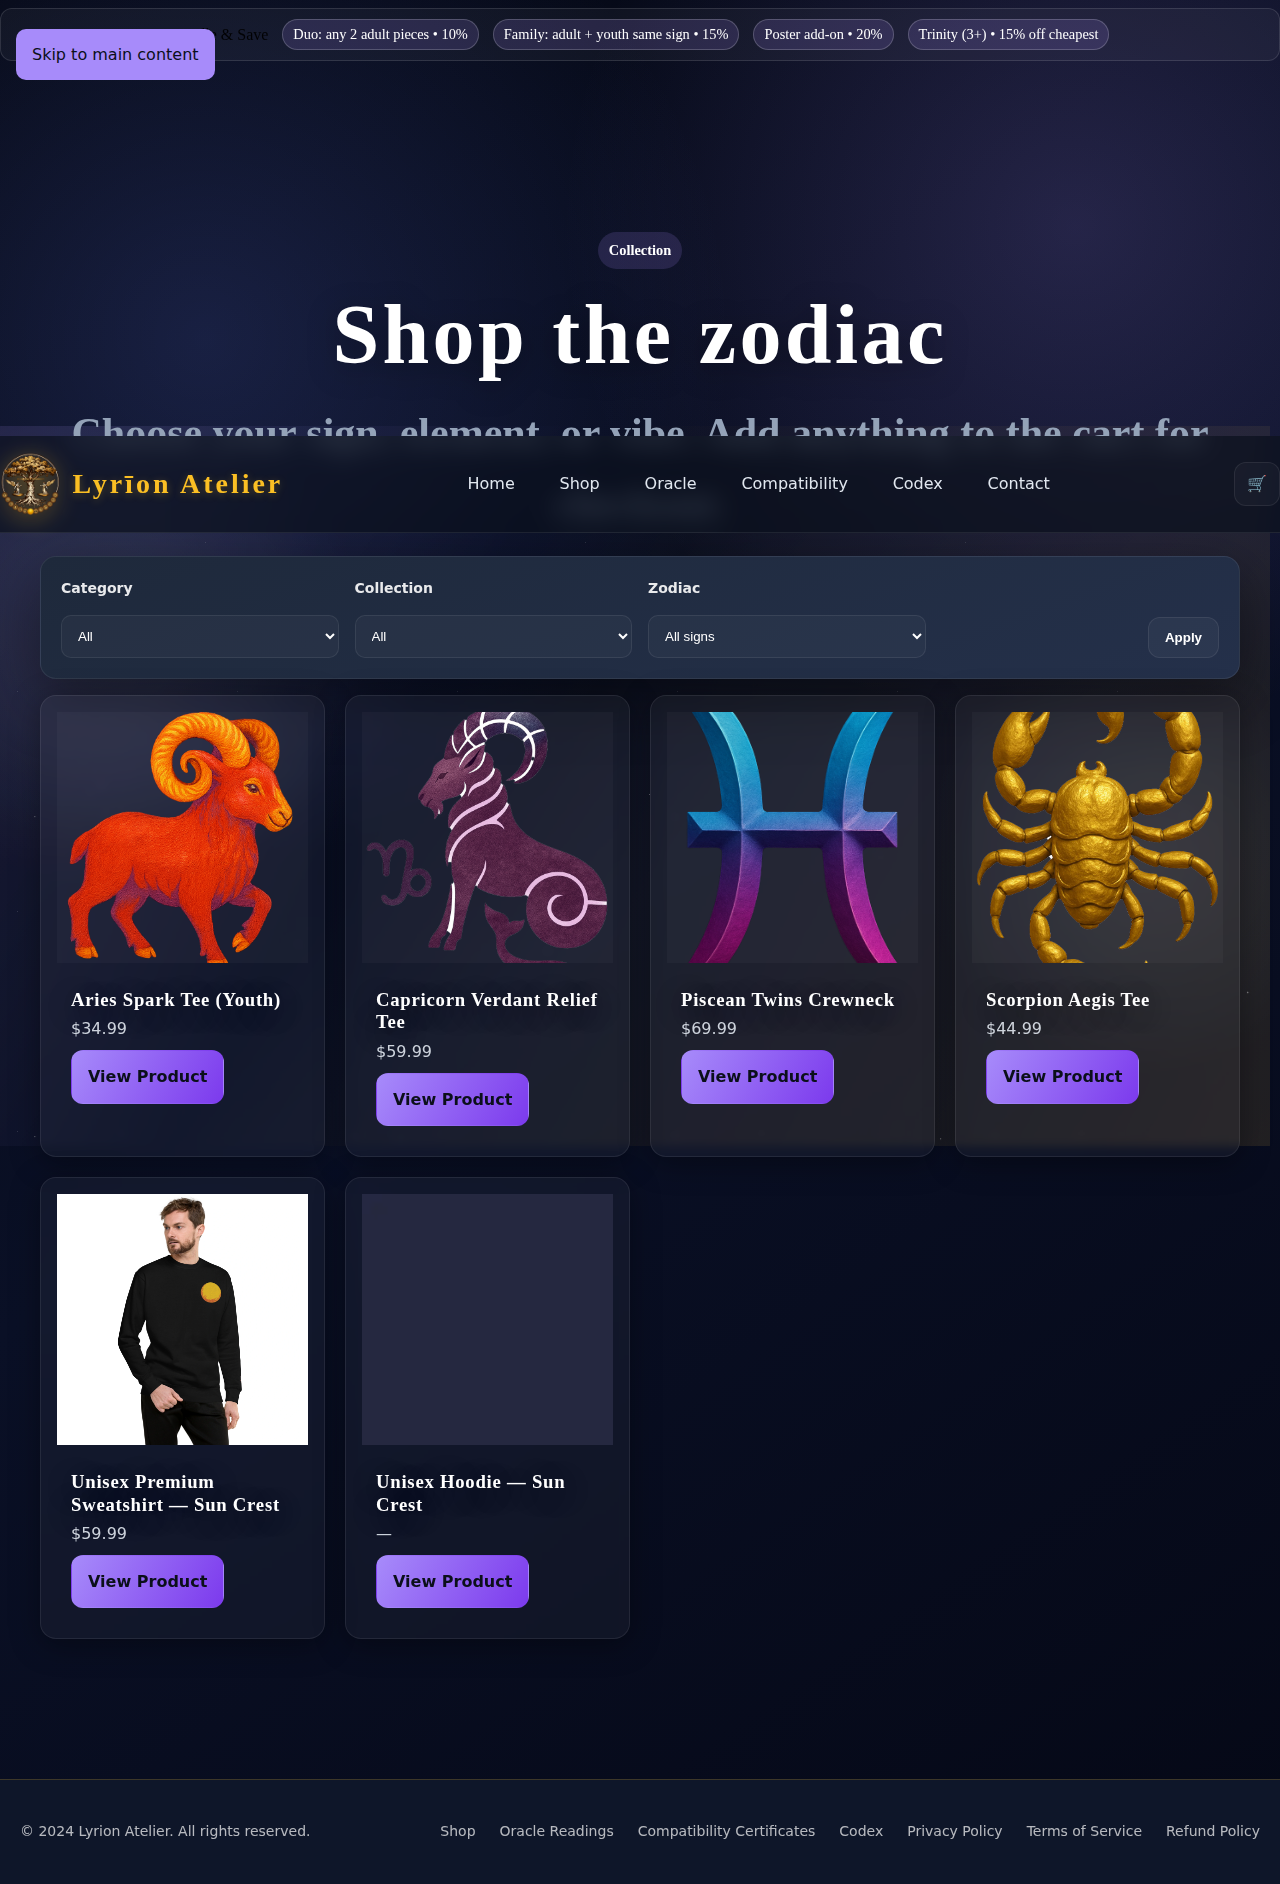
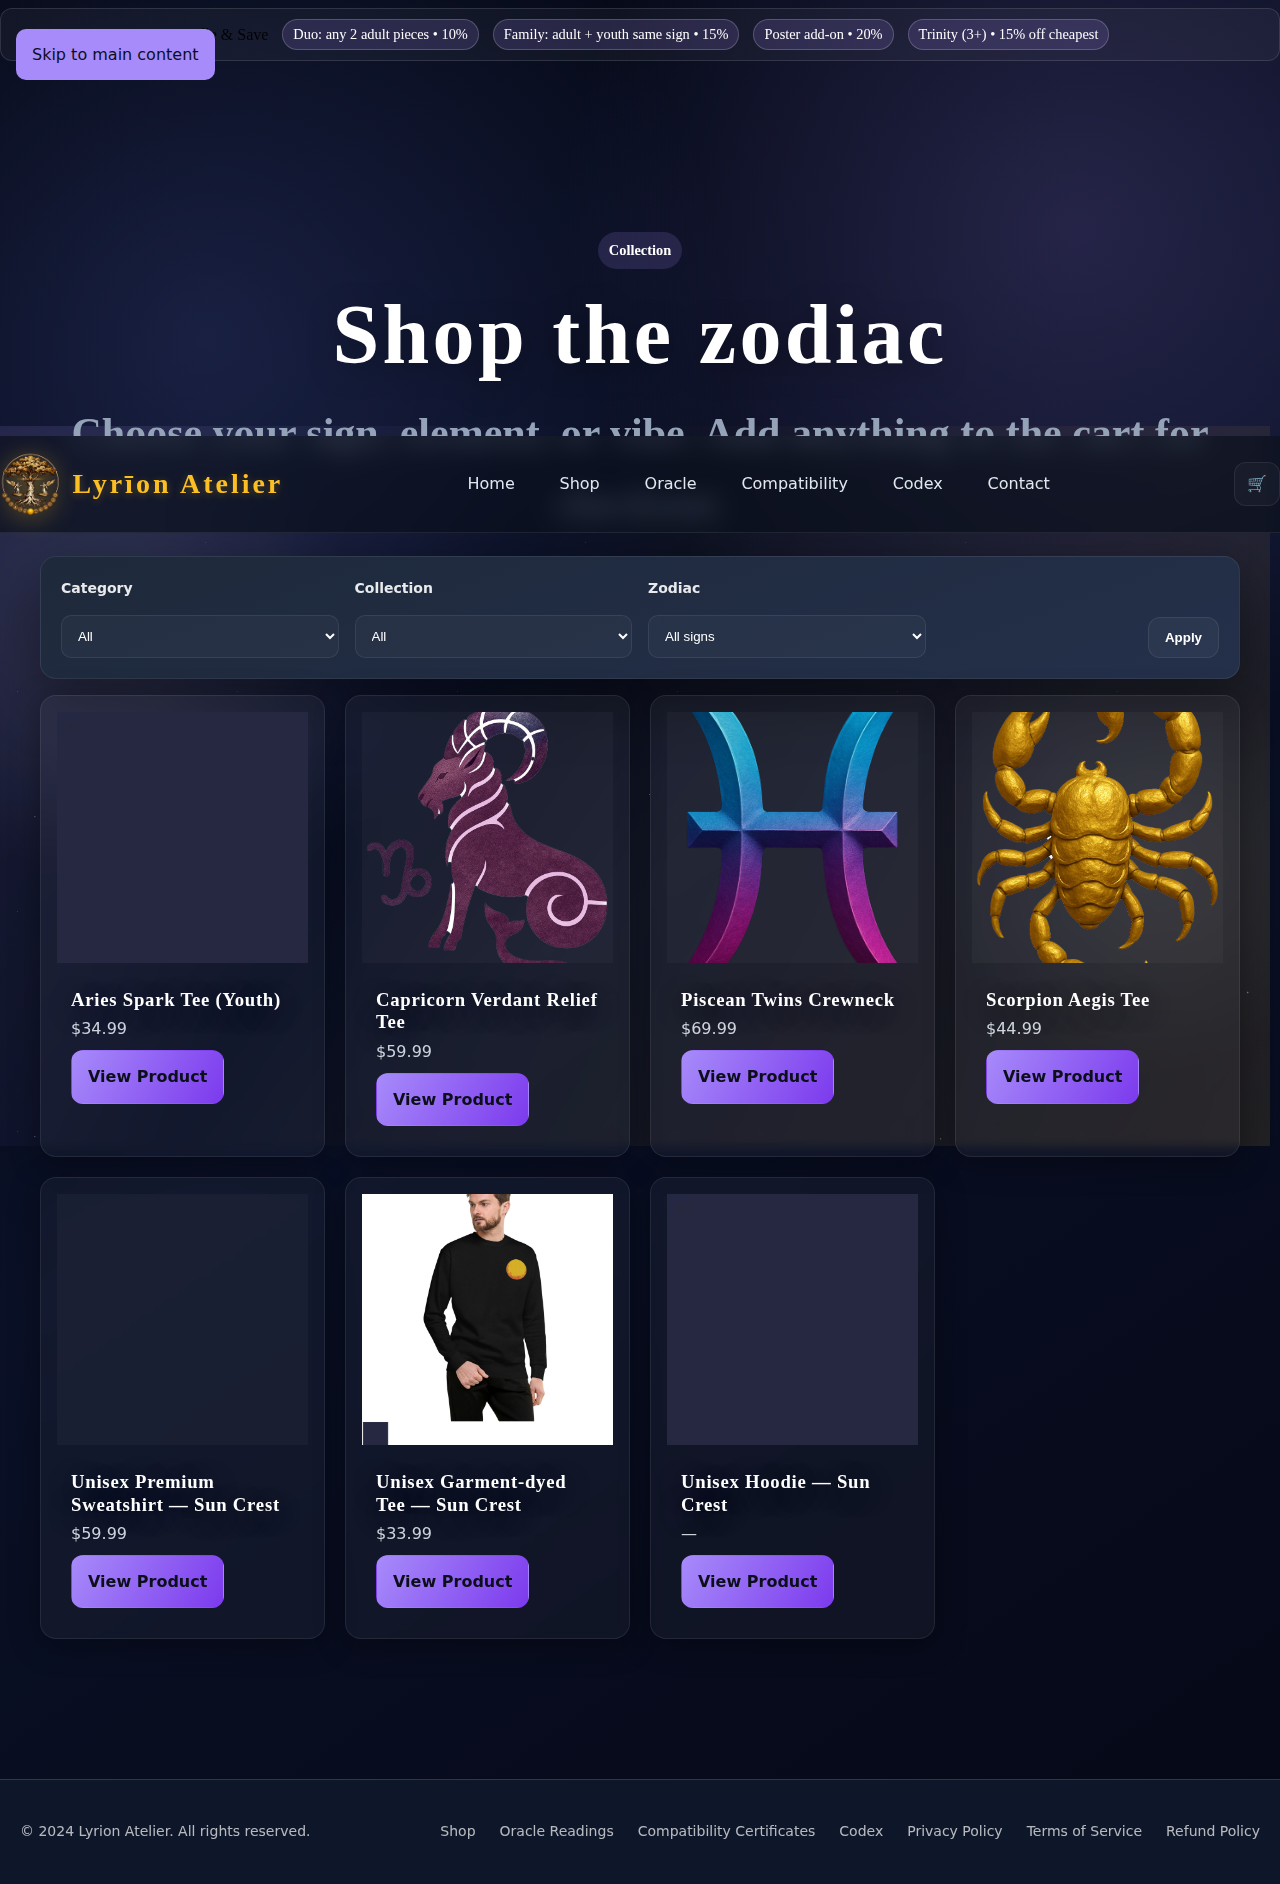
feat(products): replace Aries Spark Tee (Youth) with live Printful variants + external image (fallback-safe)

Changed region(s): [[0.2812, 0.6157, 0.7188, 0.862], [0.0312, 0.6157, 0.25, 0.7696], [0.0312, 0.3694, 0.2188, 0.5234]]

diff --git a/js/product-detail.js b/js/product-detail.js
@@ -98,9 +98,10 @@ function renderImages(images = [], productTitle = 'Product') {
     img.alt = `${productTitle} image ${idx + 1}`;
     img.loading = 'lazy';
     img.decoding = 'async';
-    const allowFallback = !/^https?:\/\//i.test(src || '');
     img.onerror = () => {
-      if (allowFallback && img.src !== FALLBACK_IMAGE) img.src = FALLBACK_IMAGE;
+      if (img.dataset.fallbackApplied === '1') return;
+      img.dataset.fallbackApplied = '1';
+      img.src = FALLBACK_IMAGE;
     };
     gallery.appendChild(img);
   });
@@ -231,6 +232,15 @@ async function hydrateProductPage() {
   );
 
   const sizeSelect = $('#size-select');
+  const sizeContainer = $('#size-selector');
+  const sizeButtonsWrap = document.createElement('div');
+  sizeButtonsWrap.className = 'chip-row size-chip-row';
+  sizeButtonsWrap.id = 'size-buttons';
+  sizeButtonsWrap.setAttribute('role', 'group');
+  sizeButtonsWrap.setAttribute('aria-label', 'Select size');
+  if (sizeContainer) {
+    sizeContainer.appendChild(sizeButtonsWrap);
+  }
   if (sizeSelect) {
     sizeSelect.innerHTML = '<option value="">Select size</option>';
     sizes.forEach((size) => {
@@ -240,6 +250,19 @@ async function hydrateProductPage() {
       sizeSelect.appendChild(opt);
     });
     if (sizes[0]) sizeSelect.value = sizes[0];
+  }
+  if (sizeButtonsWrap && sizes.length) {
+    sizeButtonsWrap.innerHTML = '';
+    sizes.forEach((size, idx) => {
+      const btn = document.createElement('button');
+      btn.type = 'button';
+      btn.className = 'chip size-chip';
+      btn.textContent = size;
+      btn.dataset.size = size;
+      btn.setAttribute('aria-pressed', idx === 0 ? 'true' : 'false');
+      if (idx === 0) btn.classList.add('active');
+      sizeButtonsWrap.appendChild(btn);
+    });
   }
 
   const colorWrap = $('#color-options');
@@ -286,7 +309,8 @@ async function hydrateProductPage() {
   const currency = product.currency || product.price?.currency || 'USD';
 
   function currentSelection() {
-    const selectedSize = sizeSelect?.value || sizes[0] || null;
+    const selectedButton = sizeButtonsWrap?.querySelector('.size-chip.active');
+    const selectedSize = selectedButton?.dataset.size || sizeSelect?.value || sizes[0] || null;
     const selectedColor =
       colorWrap?.querySelector('.chip.active')?.dataset.value || colors[0] || null;
     return { size: selectedSize, color: selectedColor };
@@ -296,15 +320,43 @@ async function hydrateProductPage() {
     const selection = currentSelection();
     activeVariant = resolveVariant(product, selection.size, selection.color);
     const displayPrice = derivePrice(product, selection.size, activeVariant);
+    const variantId =
+      getStoreVariantId(activeVariant) ||
+      activeVariant?.printfulVariantId ||
+      activeVariant?.variant_id ||
+      activeVariant?.id ||
+      product?.pf?.variants?.[selection.size] ||
+      null;
+    if (sizeButtonsWrap) {
+      sizeButtonsWrap.querySelectorAll('.size-chip').forEach((btn) => {
+        const isActive = btn.dataset.size === selection.size;
+        btn.classList.toggle('active', isActive);
+        btn.setAttribute('aria-pressed', isActive ? 'true' : 'false');
+        if (isActive) btn.dataset.variant = variantId || '';
+      });
+    }
     if (priceEl) priceEl.textContent = formatPriceWithCurrency(displayPrice ?? activeVariant?.price, currency);
     if (addBtn) {
       addBtn.disabled = !activeVariant;
+      addBtn.dataset.variant = variantId || '';
       addBtn.textContent = activeVariant
         ? `Add to Cart — ${formatPriceWithCurrency(displayPrice ?? activeVariant?.price, currency)}`
         : 'Unavailable';
     }
   }
 
+  sizeButtonsWrap?.addEventListener('click', (e) => {
+    const btn = e.target.closest('.size-chip');
+    if (!btn) return;
+    sizeButtonsWrap.querySelectorAll('.size-chip').forEach((b) => {
+      b.classList.remove('active');
+      b.setAttribute('aria-pressed', 'false');
+    });
+    btn.classList.add('active');
+    btn.setAttribute('aria-pressed', 'true');
+    if (sizeSelect) sizeSelect.value = btn.dataset.size || '';
+    updateVariant();
+  });
   sizeSelect?.addEventListener('change', updateVariant);
   addBtn?.addEventListener('click', (e) => {
     e.preventDefault();

diff --git a/tests/product-detail.spec.ts b/tests/product-detail.spec.ts
@@ -6,8 +6,6 @@ import url from 'url';
 
 const PORT = 4175;
 const ROOT = path.resolve(__dirname, '..');
-const SWEATSHIRT_2XL_SKU = 'LA-SW-UNISEX-2XL';
-
 const MIME: Record<string, string> = {
   '.html': 'text/html',
   '.js': 'application/javascript',
@@ -74,14 +72,17 @@ test.describe('product detail page', () => {
       route.fulfill({ status: 200, body: '' })
     );
 
-    await page.goto(`http://localhost:${PORT}/shop/aries-spark-youth-tee`, { waitUntil: 'networkidle' });
+    await page.goto(`http://localhost:${PORT}/shop/aries-spark-tee-youth`, { waitUntil: 'networkidle' });
 
     await expect(page.locator('#product-name')).toHaveText(/Aries Spark Tee/i);
     await expect(page.locator('#product-description')).toContainText(/Ignition energy/i);
     await expect(page.locator('#product-price')).toContainText('$34.99');
 
-    const sizeOptions = await page.locator('#size-select option').allInnerTexts();
-    expect(sizeOptions).toContain('S');
+    const sizeButtons = page.locator('.size-chip');
+    await expect(sizeButtons).toHaveCount(5);
+    const sizes = await sizeButtons.allInnerTexts();
+    expect(sizes).toContain('XS');
+    expect(sizes).toContain('XL');
 
     await page.waitForSelector('#product-gallery img');
     const imgWidth = await page.locator('#product-gallery img').first().evaluate((img) => (img as HTMLImageElement).naturalWidth);
@@ -90,7 +91,7 @@ test.describe('product detail page', () => {
     await page.screenshot({ path: 'product-detail-pass.png', fullPage: true });
   });
 
-  test('Sun Crest PDP wires size selection to checkout payload', async ({ page }) => {
+  test('Aries youth PDP wires size selection to checkout payload', async ({ page }) => {
     await page.route('https://fonts.googleapis.com/**', (route) =>
       route.fulfill({ status: 200, contentType: 'text/css', body: '' })
     );
@@ -108,21 +109,20 @@ test.describe('product detail page', () => {
       });
     });
 
-    await page.goto(`http://localhost:${PORT}/shop/lyrion-premium-sweatshirt`, { waitUntil: 'networkidle' });
+    await page.goto(`http://localhost:${PORT}/shop/aries-spark-tee-youth`, { waitUntil: 'networkidle' });
 
-    const sizeSelect = page.locator('#size-select');
-    await expect(sizeSelect).toHaveCount(1);
-
-    await sizeSelect.selectOption({ label: '2XL' });
+    const xlButton = page.locator('.size-chip', { hasText: 'XL' });
+    await xlButton.click();
+    await expect(xlButton).toHaveAttribute('aria-pressed', 'true');
     await page.click('#add-to-cart-btn');
     await page.waitForTimeout(200);
 
     const lineItem = checkoutPayload?.lineItems?.[0];
     const meta = lineItem?.price_data?.product_data?.metadata;
-    expect(meta?.sku).toBe(SWEATSHIRT_2XL_SKU);
-    expect(meta?.size).toBe('2XL');
-    expect(lineItem?.price_data?.unit_amount).toBe(5999);
+    expect(meta?.pf_variant_id).toBe('694615f9707eb6');
+    expect(meta?.size).toBe('XL');
+    expect(lineItem?.price_data?.unit_amount).toBe(3499);
 
-    await page.screenshot({ path: 'shop-product-sun-crest.png', fullPage: true });
+    await page.screenshot({ path: 'shop-product-aries-youth.png', fullPage: true });
   });
 });

diff --git a/tests/shop.spec.ts b/tests/shop.spec.ts
@@ -158,7 +158,7 @@ test.describe('shop smoke test', () => {
     await page.goto(`http://localhost:${PORT}/shop`, { waitUntil: 'networkidle' });
     await page.waitForSelector('.product-card');
     await page.selectOption('#filter-collection', 'lyrion-atelier');
-    const allowedSlugs = ['lyrion-premium-sweatshirt', 'unisex-hoodie-sun-crest'];
+    const allowedSlugs = ['lyrion-premium-sweatshirt', 'unisex-hoodie-sun-crest', 'unisex-tee-sun-crest'];
     await page.waitForFunction(
       (slugs) => {
         const cards = Array.from(document.querySelectorAll('.product-card'));

diff --git a/_incoming/README.md b/_incoming/README.md
@@ -1,7 +1,7 @@
 Drop any source images here (JPG/PNG). Optional: add a map.json to override matches:
 {
  "scorpio-gold.png": "scorpion-aegis-tee", 
- "aries-spark.png": "aries-spark-youth-tee"
+"aries-spark.png": "aries-spark-tee-youth"
 }
 Filenames can be anything; the pipeline will guess by zodiac/slug keywords if no map provided.
 Use slugs exactly as they appear in data/products (e.g., "scorpion-aegis-tee").
